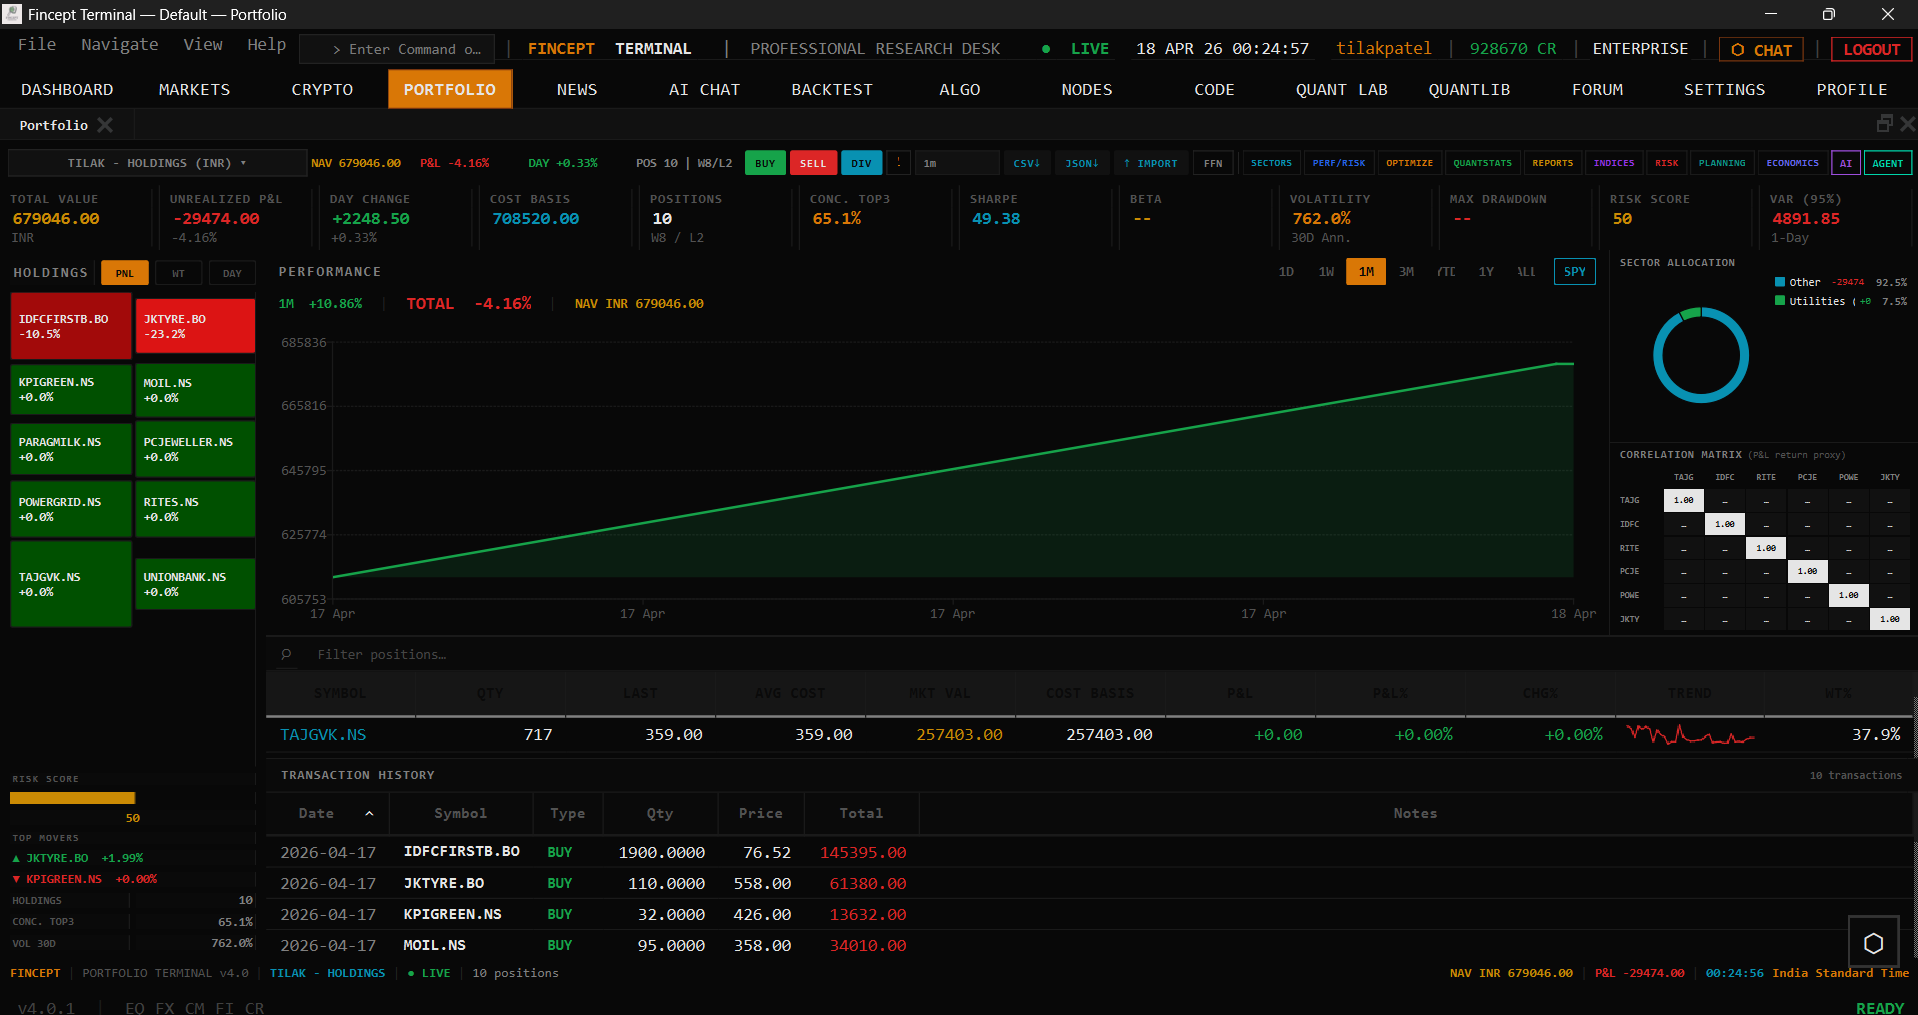
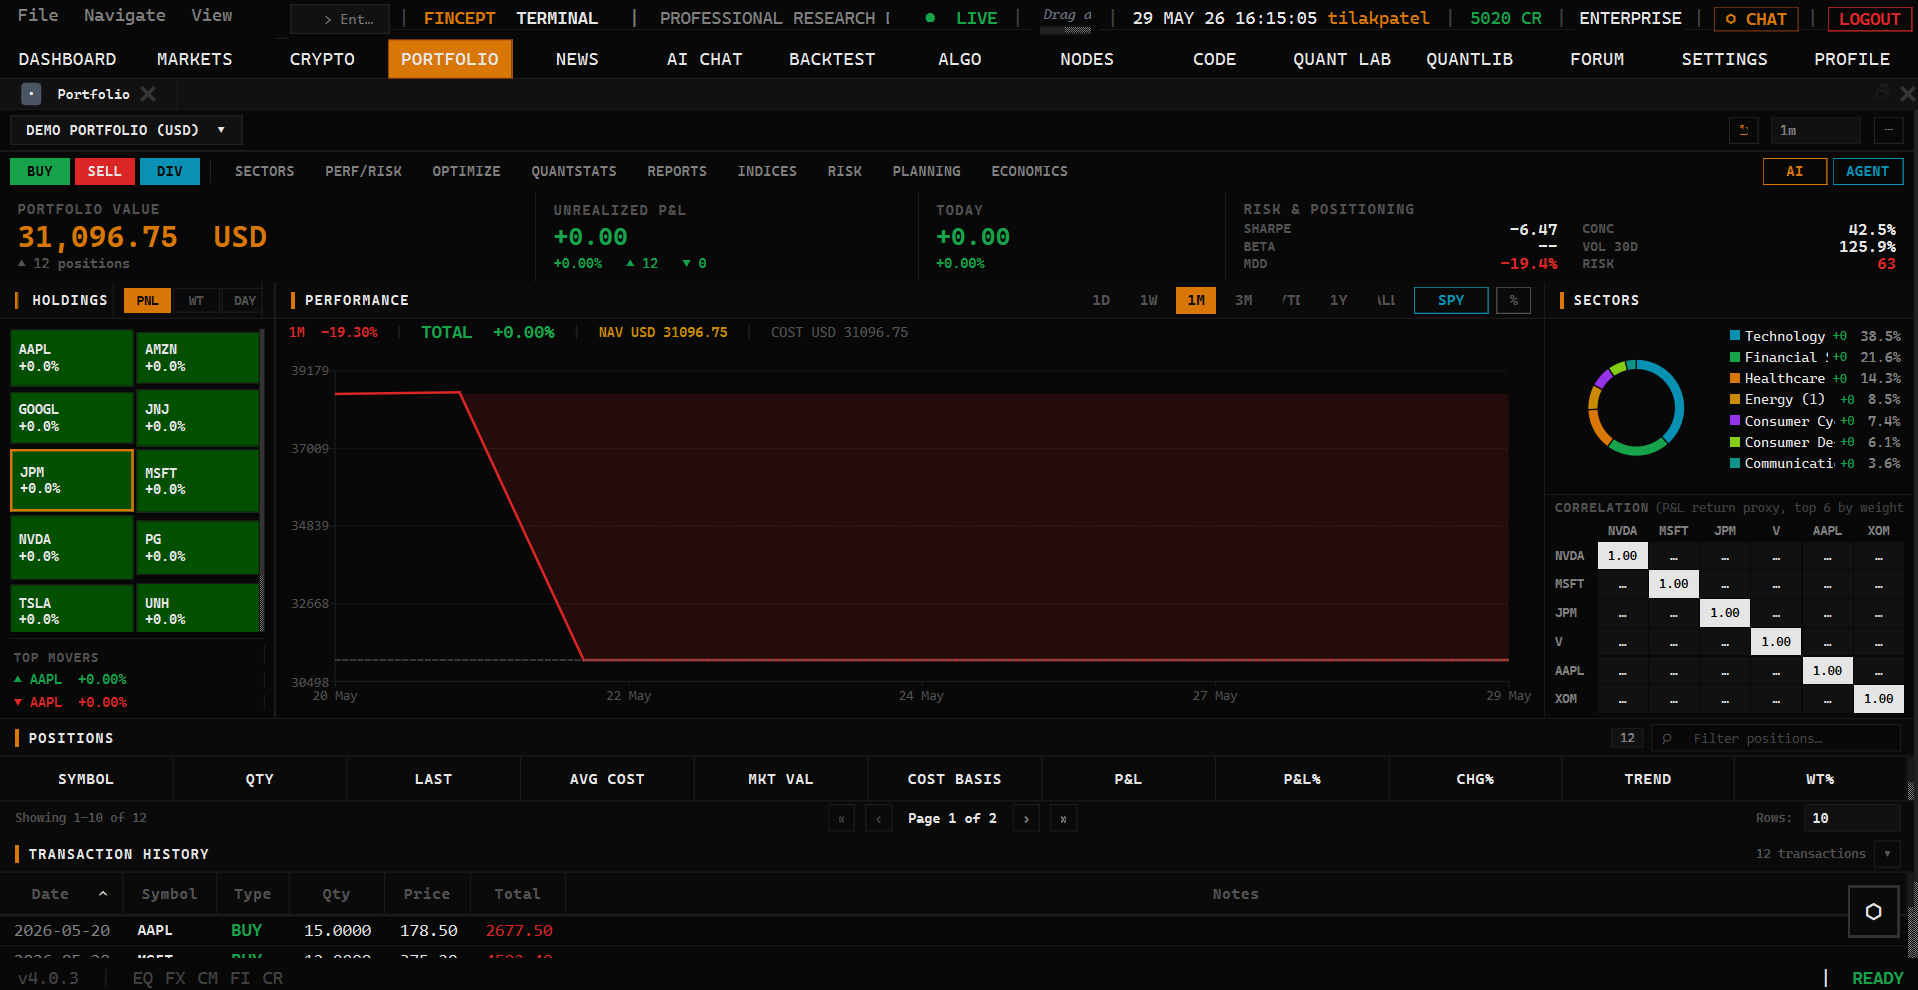
news tab changes

diff --git a/fincept-qt/src/screens/news/NewsCommandBar.cpp b/fincept-qt/src/screens/news/NewsCommandBar.cpp
@@ -107,15 +107,15 @@ void NewsCommandBar::build_command_row(QVBoxLayout* root) {
     sort_newest_ = make_pill("NEW", "NEWEST", hl);
     connect(sort_relevance_, &QPushButton::clicked, this, [this]() {
         active_sort_ = "RELEVANCE";
-        update_pill_group({sort_relevance_, sort_newest_}, "REL");
+        update_pill_group({sort_relevance_, sort_newest_}, active_sort_);
         emit sort_changed("RELEVANCE");
     });
     connect(sort_newest_, &QPushButton::clicked, this, [this]() {
         active_sort_ = "NEWEST";
-        update_pill_group({sort_relevance_, sort_newest_}, "NEW");
+        update_pill_group({sort_relevance_, sort_newest_}, active_sort_);
         emit sort_changed("NEWEST");
     });
-    update_pill_group({sort_relevance_, sort_newest_}, "REL");
+    update_pill_group({sort_relevance_, sort_newest_}, active_sort_);
 
     hl->addSpacing(2);
 
@@ -124,15 +124,15 @@ void NewsCommandBar::build_command_row(QVBoxLayout* root) {
     view_clusters_ = make_pill("CLST", "CLUSTERS", hl);
     connect(view_wire_, &QPushButton::clicked, this, [this]() {
         active_view_ = "WIRE";
-        update_pill_group({view_wire_, view_clusters_}, "WIRE");
+        update_pill_group({view_wire_, view_clusters_}, active_view_);
         emit view_mode_changed("WIRE");
     });
     connect(view_clusters_, &QPushButton::clicked, this, [this]() {
         active_view_ = "CLUSTERS";
-        update_pill_group({view_wire_, view_clusters_}, "CLST");
+        update_pill_group({view_wire_, view_clusters_}, active_view_);
         emit view_mode_changed("CLUSTERS");
     });
-    update_pill_group({view_wire_, view_clusters_}, "WIRE");
+    update_pill_group({view_wire_, view_clusters_}, active_view_);
 
     hl->addStretch();
 
@@ -339,18 +339,24 @@ void NewsCommandBar::build_intel_row(QVBoxLayout* root) {
 }
 
 QPushButton* NewsCommandBar::make_pill(const QString& text, const QString& value, QHBoxLayout* layout) {
-    Q_UNUSED(value);
     auto* btn = new QPushButton(text, this);
     btn->setObjectName("newsCommandBarPill");
     btn->setFixedHeight(18);
     btn->setCursor(Qt::PointingHandCursor);
+    // Carry the logical value (e.g. "RELEVANCE" for the "REL" pill) as a
+    // property so update_pill_group can match on intent rather than the
+    // abbreviated label — lets callers pass the canonical value.
+    btn->setProperty("pillValue", value);
     layout->addWidget(btn);
     return btn;
 }
 
 void NewsCommandBar::update_pill_group(const QVector<QPushButton*>& btns, const QString& active_value) {
     for (auto* btn : btns) {
-        bool active = (btn->text() == active_value);
+        // Match against the pill's logical value, falling back to its label so
+        // groups created before pillValue was set still behave.
+        const QString value = btn->property("pillValue").toString();
+        bool active = (value == active_value) || (btn->text() == active_value);
         btn->setProperty("active", active);
         btn->style()->unpolish(btn);
         btn->style()->polish(btn);
@@ -360,6 +366,21 @@ void NewsCommandBar::update_pill_group(const QVector<QPushButton*>& btns, const 
 void NewsCommandBar::set_active_category(const QString& cat) {
     active_category_ = cat;
     update_pill_group(category_btns_, active_category_);
+}
+
+void NewsCommandBar::set_active_sort(const QString& sort) {
+    active_sort_ = sort;
+    update_pill_group({sort_relevance_, sort_newest_}, active_sort_);
+}
+
+void NewsCommandBar::set_active_view(const QString& view) {
+    active_view_ = view;
+    update_pill_group({view_wire_, view_clusters_}, active_view_);
+}
+
+void NewsCommandBar::set_active_time_range(const QString& range) {
+    active_time_ = range;
+    update_pill_group(time_btns_, active_time_);
 }
 
 void NewsCommandBar::set_loading(bool loading) {

diff --git a/fincept-qt/src/screens/news/NewsScreen.cpp b/fincept-qt/src/screens/news/NewsScreen.cpp
@@ -52,6 +52,14 @@ NewsScreen::NewsScreen(QWidget* parent) : QWidget(parent) {
     build_ui();
     connect_signals();
 
+    // Push the persisted preferences into the command bar so the pill
+    // highlights (category / time / REL-NEW sort / WIRE-CLST view) reflect the
+    // restored state on first paint instead of their hardcoded defaults.
+    command_bar_->set_active_category(active_category_);
+    command_bar_->set_active_time_range(time_range_);
+    command_bar_->set_active_sort(sort_mode_);
+    command_bar_->set_active_view(view_mode_);
+
     // Drop a symbol anywhere on the News screen to filter the feed by that
     // ticker. Reuses the search-query pipeline so caching/highlighting stay
     // coherent with keyword search.
@@ -1212,8 +1220,12 @@ void NewsScreen::restore_state(const QVariantMap& state) {
     search_query_.clear();
     active_variant_ = state.value("variant", "FULL").toString();
 
-    if (command_bar_)
+    if (command_bar_) {
         command_bar_->set_active_category(active_category_);
+        command_bar_->set_active_time_range(time_range_);
+        command_bar_->set_active_sort(sort_mode_);
+        command_bar_->set_active_view(view_mode_);
+    }
 }
 
 } // namespace fincept::screens

diff --git a/fincept-qt/src/screens/news/NewsCommandBar.h b/fincept-qt/src/screens/news/NewsCommandBar.h
@@ -20,6 +20,14 @@ class NewsCommandBar : public QWidget {
     explicit NewsCommandBar(QWidget* parent = nullptr);
 
     void set_active_category(const QString& cat);
+    /// Re-highlight the REL/NEW sort pills to match `sort` ("RELEVANCE" /
+    /// "NEWEST"). Used to sync the UI with persisted/restored state without
+    /// emitting sort_changed.
+    void set_active_sort(const QString& sort);
+    /// Re-highlight the WIRE/CLST view pills ("WIRE" / "CLUSTERS").
+    void set_active_view(const QString& view);
+    /// Re-highlight the time-range pills ("1H".."30D").
+    void set_active_time_range(const QString& range);
     void set_loading(bool loading);
     void set_loading_progress(int done, int total);
     void set_article_count(int count);